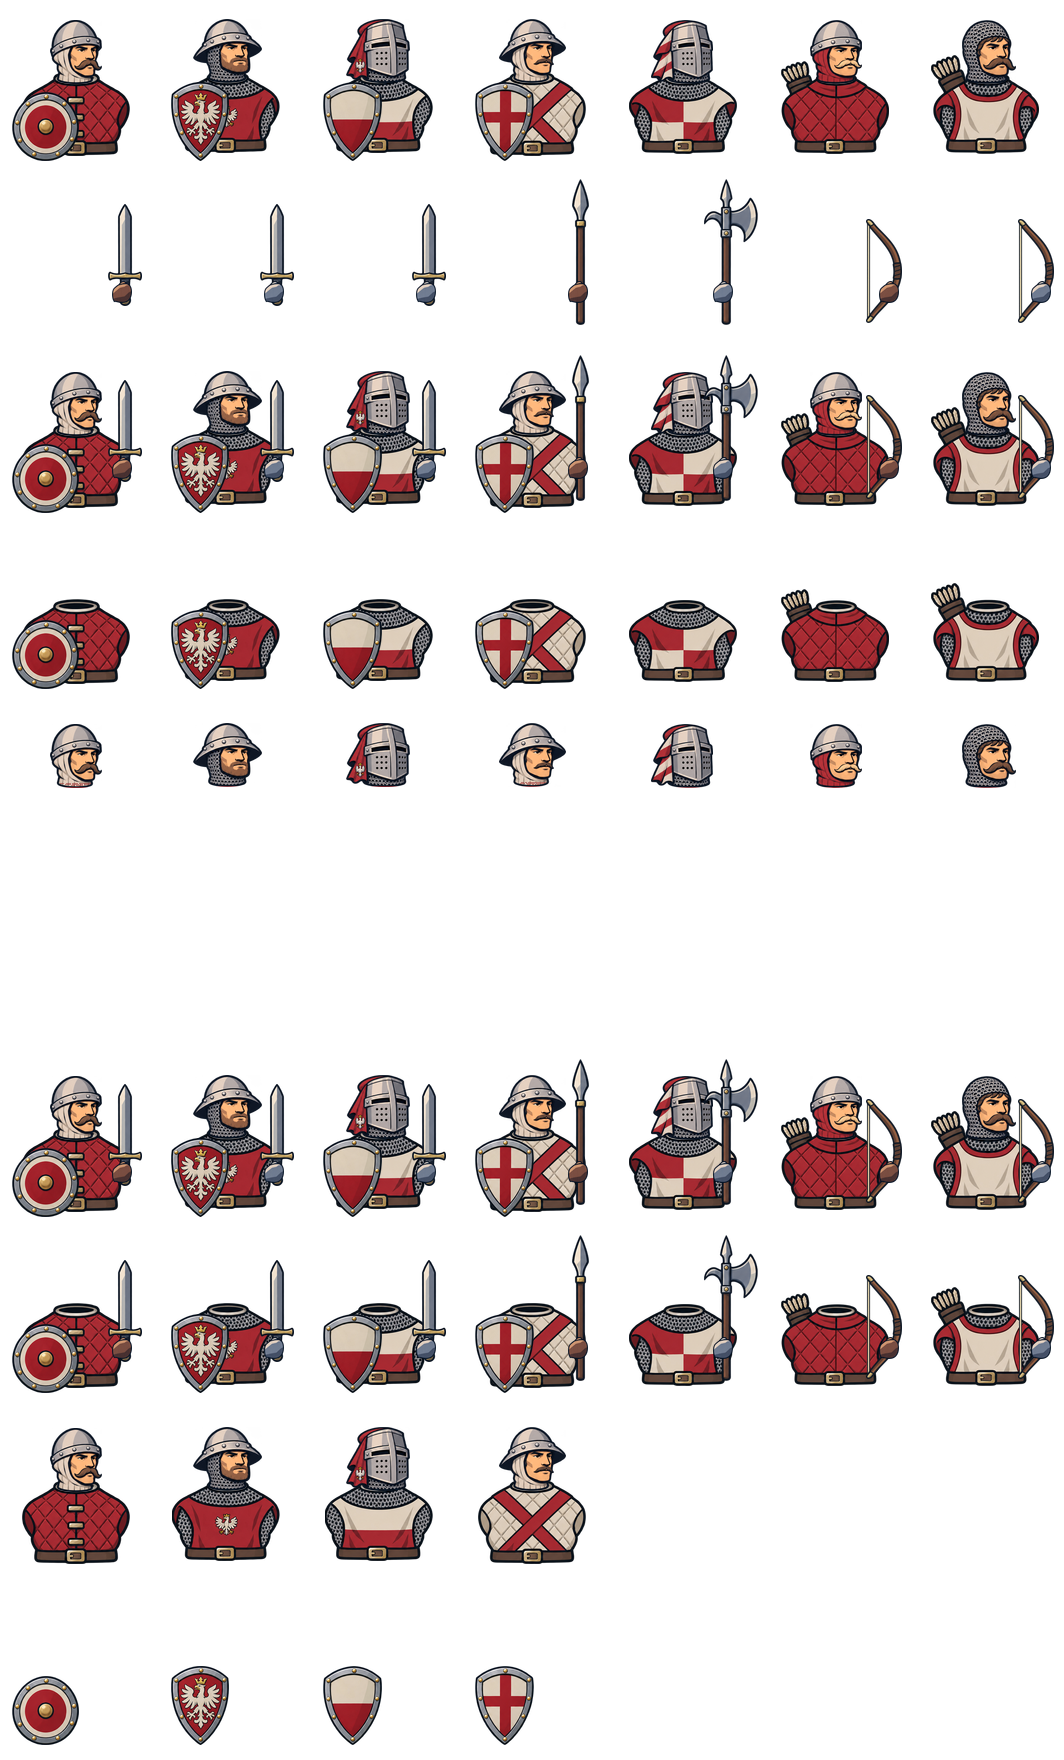
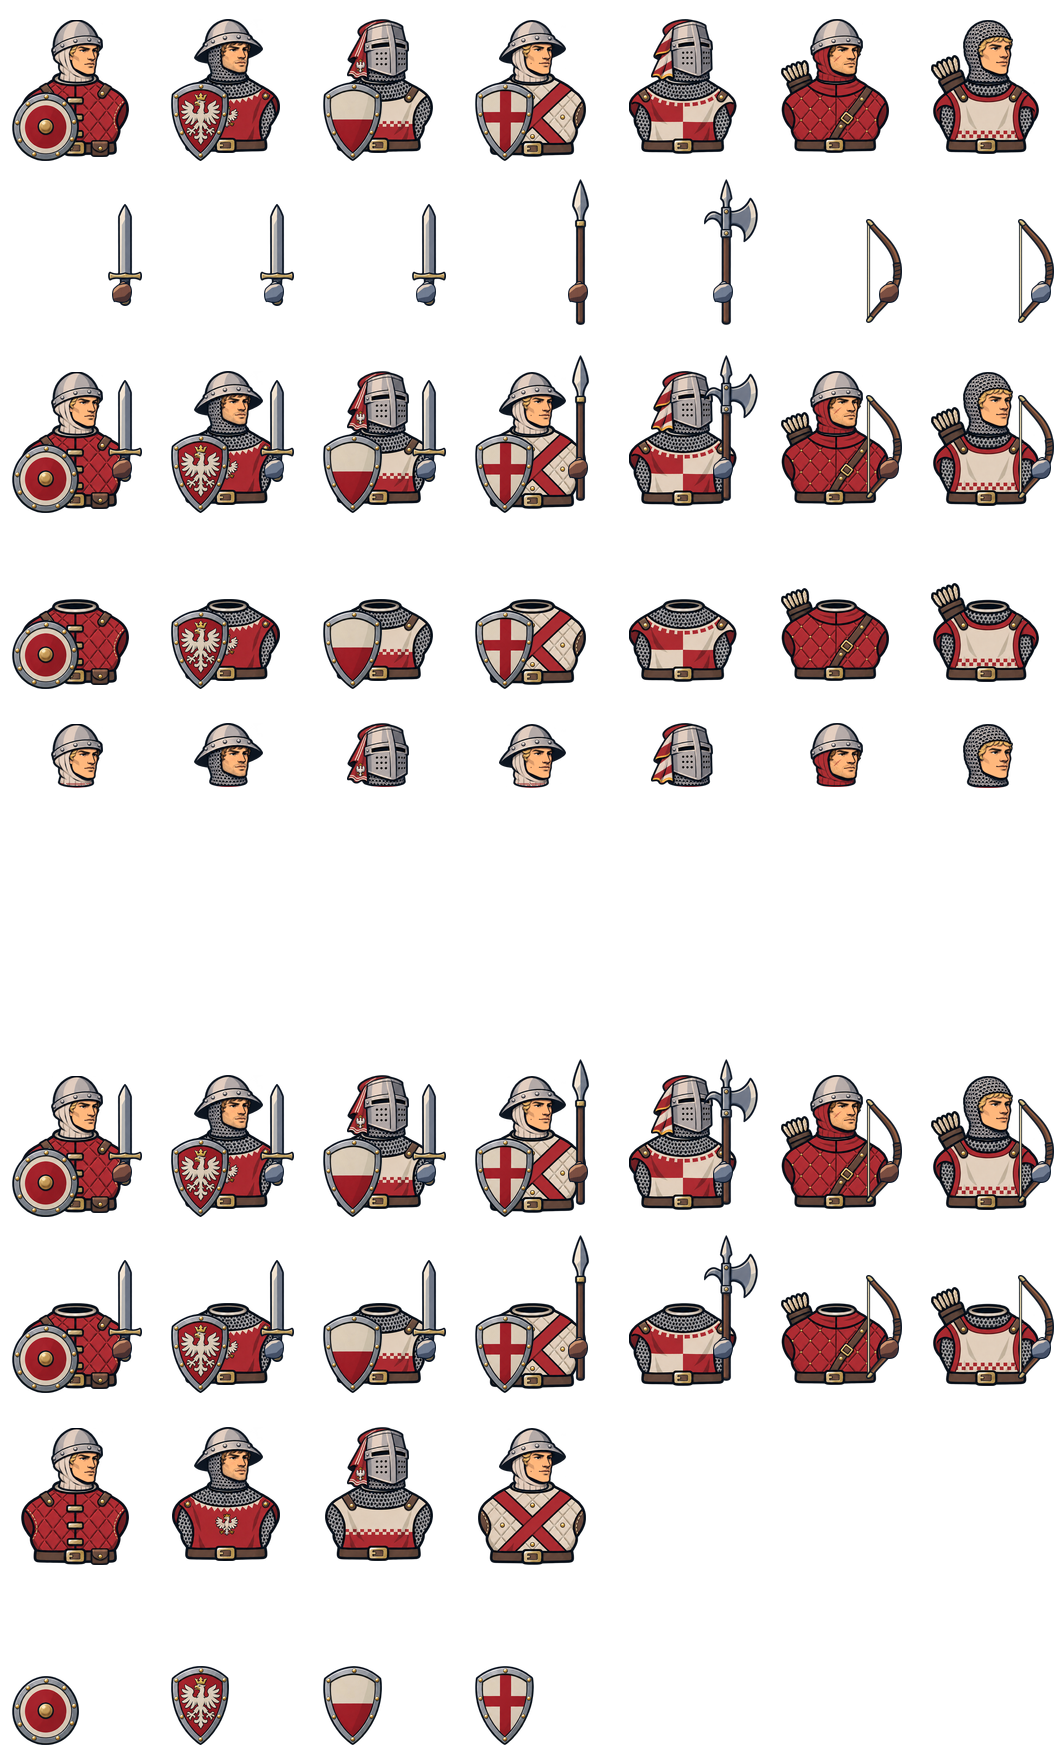
Пакт: варианты бойцов — другие лица, детали брони и масти коней (#288) (#299)
Claude-Session: https://claude.ai/code/session_0112NLBndME8PiXpuX2g7p2P

diff --git a/shareness/lessons.md b/shareness/lessons.md
@@ -202,3 +202,4 @@
 - 2026-11-20 — **Все фракции в геральдике.** Галлия, эмират, пакт и разбойники сгенерированы через Codex параллельно (по чату на лист), все листы годные с первого захода — промпты в `heraldic_source/<фракция>-prompts.md`. Оранжевый эмирата совпадает по оттенку с кожей: для перекраски в стяг у фракции задан `min_saturation` (кожа ~0.4, ткань ~0.8). Батч computer use длиннее ~60 с обрывается по таймауту моста — запускать не больше 3 чатов за вызов.
 - 2026-11-20 — **Варианты бойцов (Галлия).** Чтобы отряд не был клонами, страницы 1–3 атласа собираются из своих листов `<фракция>-torsos-vN.png` / `-heads-vN.png` (те же клетки, броня и цвета, другие люди и детали) и с другой естественной мастью коня; включается флагом `variants: true` у фракции в `render_heraldic_faction.cjs`, без флага страницы остаются как были (проверено побайтно). Грабли: у варианта тыльная сторона воротника может выйти серой (сумма RGB ≈200) и слиться с тёмным вырезом — голова садится внутрь туловища; для вариантов вырез ищется по порогу 150. Павший конь берёт вариант всадника (`mount_corpse(..., variant)`), иначе вороной падает гнедым.
 - 2026-11-20 — **Доминион в общем сборщике (#294).** Отдельные `render_dominion_heraldic.cjs`/`render_dominion_cavalry.cjs` удалены: Доминион — `FACTIONS.dominion` в `render_heraldic_faction.cjs` (ключ сборки `dominion`, в игре фракция `dom`). Его старый сустав сохранён опциями, без которых другие фракции собираются как прежде: `joint` (вычистка выреза, порог тёмного 150 у пехоты и 215 у всадников, шея по низу головы, `tuck: 4`, передняя половина воротника, «плоский» headless; у всадников край выреза — первый пиксель с суммой RGB > 450), свои листы у бойца (`parts`, `cell` — всадники из `riders-*.png`), своя форма щита `{round|kite}`, `geometry` в двух файлах без хвата пехоты (`footGrip: false`, хват берётся из `GRIPS`), 11 строк конницы (`mountRow: false`) и общая полоса коней `horseStrip`. Итог побайтно совпал со старыми атласами; все остальные фракции после правки тоже побайтно те же. Проверка любого переноса: копия всех `*_heraldic*.png` и `*_heraldic*geometry.gd` до правки, пересборка каждой фракции и `cmp`.
+- 2026-11-20 — **Варианты: гребень через границу клетки.** Сгенерированный лист может залезть плюмажем или гребнем в соседнюю клетку (у Пакта v3 — две строки пикселей перо гусара в клетку лучника). Сборщик берёт рамку по непрозрачным пикселям клетки, и голова соседа уменьшается и повисает над воротником. Перед сборкой проверяй, что у краёв клеток нет непрозрачных пикселей, и стирай залёт. Генерация вариантов удобна файлом: промпт кладётся в `.txt` рядом с исходным листом, Codex получает оба вложения и короткое «Do exactly what the attached X.txt says».

diff --git a/godot/tools/battle/heraldic_source/pact-prompts.md b/godot/tools/battle/heraldic_source/pact-prompts.md
@@ -55,3 +55,17 @@ Square canvas, STRICT 3x3 grid of equal cells, one shield centered in each used 
 8 p2c: kite shield, crimson field with a white crown, steel rim.
 9 p3c: kite shield, crimson field with a white crowned eagle, gilded rim.
 ```
+
+## Варианты
+
+Листы `pact-torsos-v1…v3.png` и `pact-heads-v1…v3.png` — правка `pact-torsos.png` / `pact-heads.png` (вложение) тем же
+генератором, по образцу вариантов Галлии (`kin-prompts.md`). Туловища сохраняют тип доспеха, малиновый и белый цвета,
+силуэт и вырез ворота: v1 — поношенная ткань с тёмными заплатами, отделка тонкими полосами, простые железные пряжки,
+завязанный кушак; v2 — кожаные ремни или небольшие круглые наплечники, кайма с шахматным узором, заклёпки, поясные сумки;
+v3 — выцветшая ткань, контрастная отделка ворота, перевязь через грудь у суконных бойцов, круглые металлические бляхи,
+видны ряды заклёпок на пластинах и кольчуге. В промпт добавлено «The rim at the back of the neck opening keeps the colour
+it has in the attached sheet, NOT grey». Головы: v1 — пожилые ветераны с проседью в бородах, морщинистые лица; v2 —
+молодые, бритые или с лёгкой щетиной, светлые волосы; v3 — широкие лица, тёмные волосы, густые усы или бороды, кое-где
+шрам. Закрывающие лицо шлемы меняют одну мелочь: v1 — другой цвет намёта, v2 — тонкая полосатая лента или намёт,
+v3 — небольшое металлическое навершие. В `pact-heads-v3.png` кончик плюмажа гусара (клетка 9) заходил в клетку 6 и
+опускал голову лучника над туловищем — эти пиксели стёрты (клетка 9 их всё равно не берёт).
